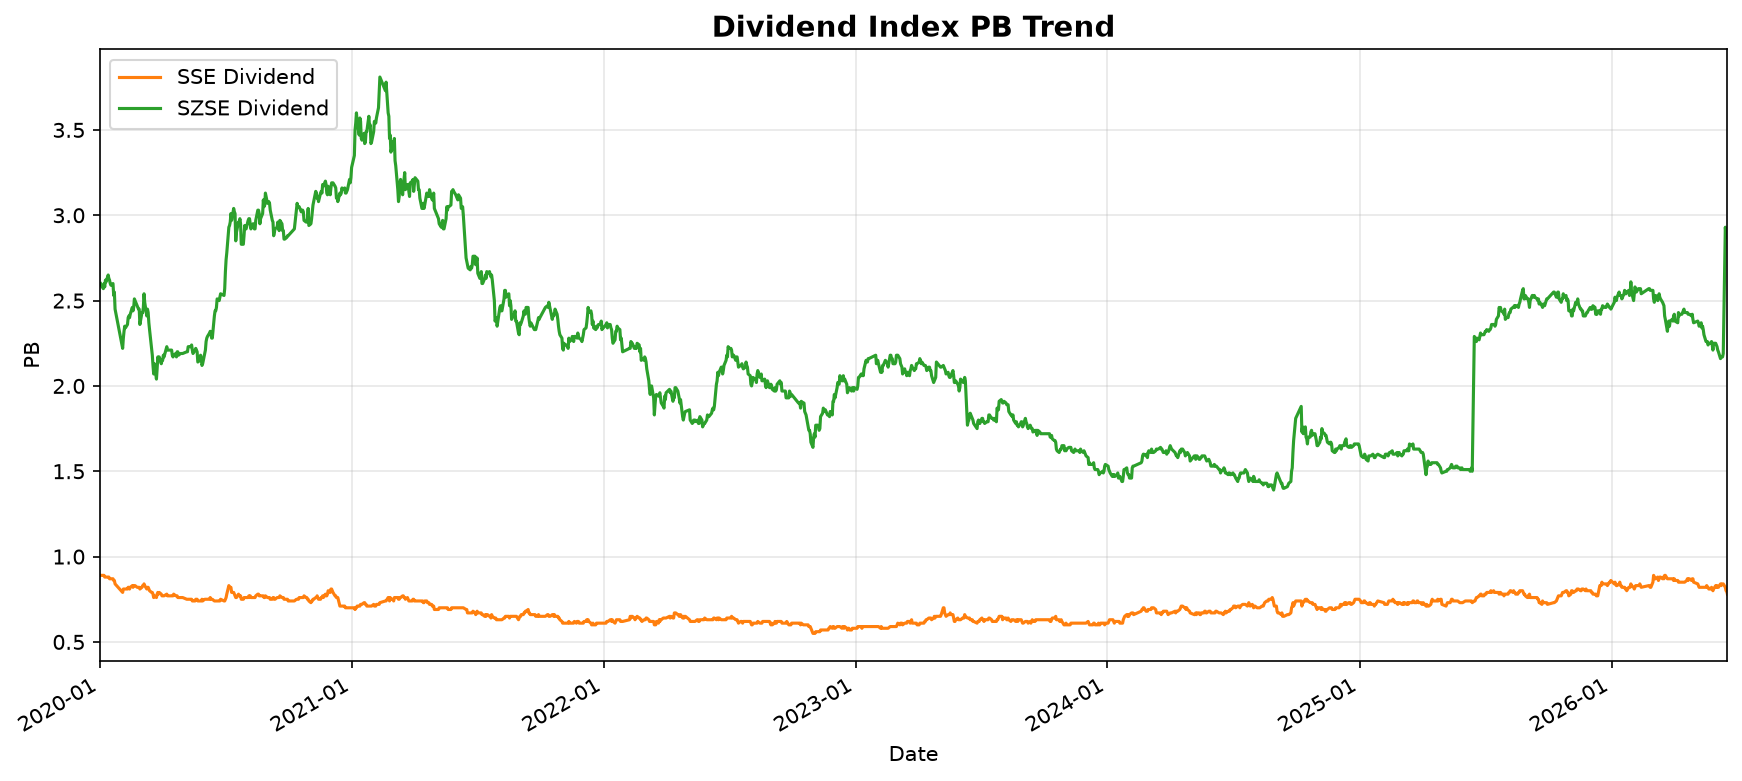
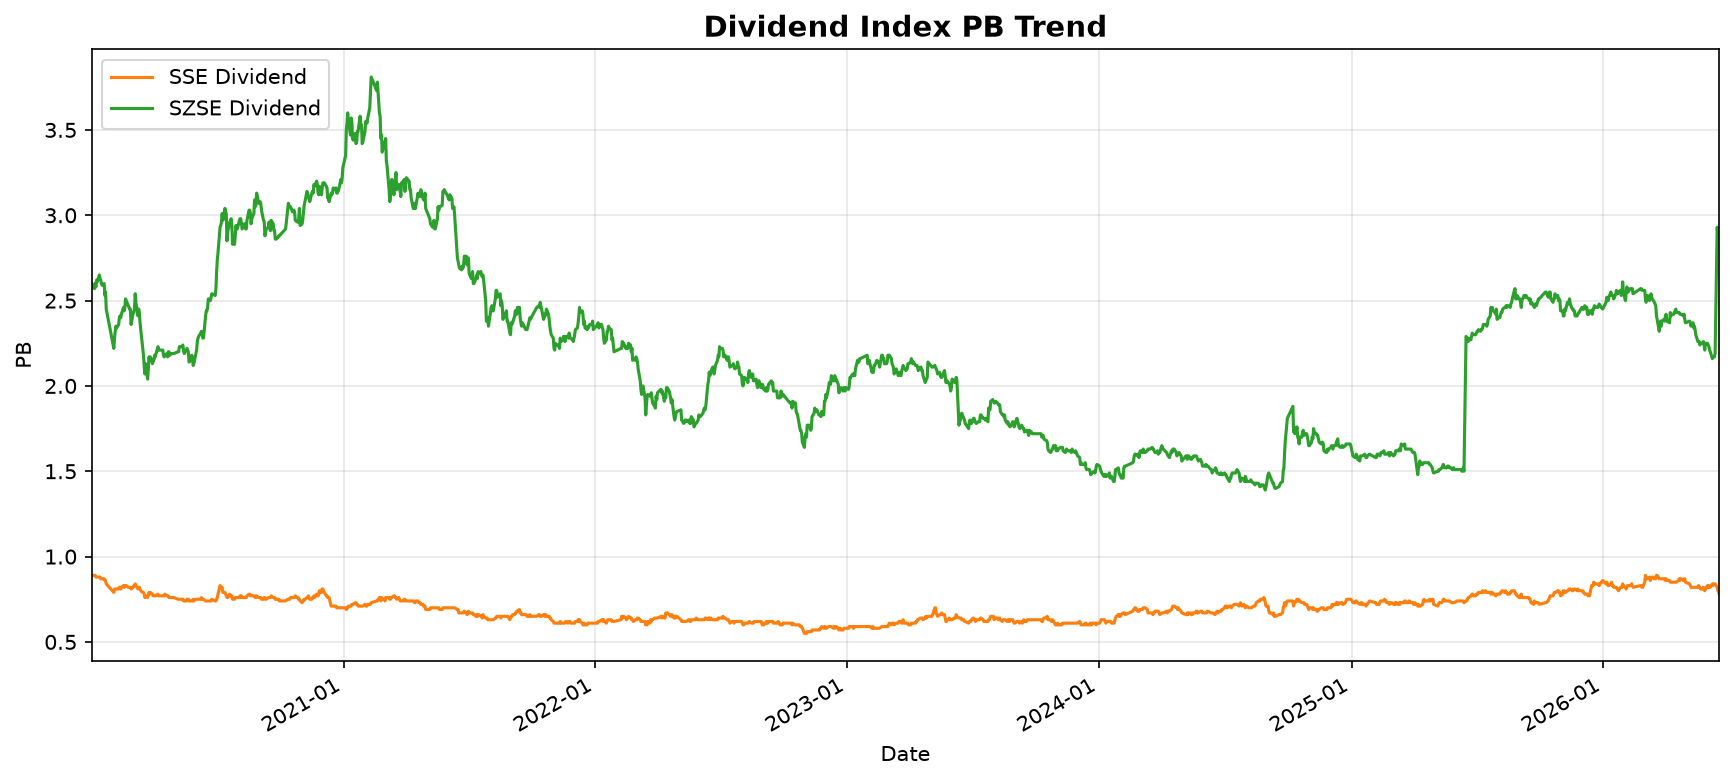
fix(charts): use metric date range

diff --git a/tests/test_update_data_axis.py b/tests/test_update_data_axis.py
@@ -10,7 +10,6 @@ from pathlib import Path
 import matplotlib
 
 matplotlib.use("Agg")
-import matplotlib.dates as mdates
 import matplotlib.pyplot as plt
 
 
@@ -51,31 +50,22 @@ class TestDateAxisFormatting(unittest.TestCase):
         finally:
             plt.close(fig)
 
-    def test_full_history_range_is_preserved(self):
-        full_history_dates = [
-            datetime(2020, 1, 1),
-            datetime(2026, 6, 18),
-        ]
-        recent_metric_dates = [
+    def test_recent_metric_range_does_not_repeat_month_labels(self):
+        dates = [
             datetime(2026, 5, 22),
             datetime(2026, 6, 18),
         ]
 
         fig, ax = plt.subplots(figsize=(14, 6))
         try:
-            ax.plot(recent_metric_dates, [4.3, 5.1])
-            self.update_data.format_date_axis(ax, full_history_dates)
+            ax.plot(dates, [4.3, 5.1])
+            self.update_data.format_date_axis(ax, dates)
             fig.canvas.draw()
 
-            min_xlim, max_xlim = ax.get_xlim()
-            min_date = mdates.num2date(min_xlim).replace(tzinfo=None)
-            max_date = mdates.num2date(max_xlim).replace(tzinfo=None)
             labels = [tick.get_text() for tick in ax.get_xticklabels() if tick.get_text()]
 
-            self.assertLessEqual(min_date.date(), datetime(2020, 1, 1).date())
-            self.assertGreaterEqual(max_date.date(), datetime(2026, 6, 18).date())
-            self.assertIn("2020-01", labels)
-            self.assertIn("2026-01", labels)
+            self.assertEqual(labels, list(dict.fromkeys(labels)))
+            self.assertTrue(all(label.startswith("2026-") for label in labels))
         finally:
             plt.close(fig)
 

diff --git a/scripts/update_data.py b/scripts/update_data.py
@@ -365,13 +365,14 @@ def generate_charts(df):
 
     indices = df['index_code'].unique()
     colors = {'000922': '#1f77b4', '000015': '#ff7f0e', '399324': '#2ca02c', 'H30269': '#d62728'}
-    axis_dates = df['date']
 
     # 1. PE trend
     fig, ax = plt.subplots(figsize=(14, 6))
+    plotted_dates = []
     for code in indices:
         sub = df[(df['index_code'] == code) & (df['pe_ttm'].notna())]
         if not sub.empty:
+            plotted_dates.extend(sub['date'].tolist())
             ax.plot(
                 sub['date'], sub['pe_ttm'],
                 label=INDICES[code].get('english_name', INDICES[code]['name']),
@@ -383,7 +384,7 @@ def generate_charts(df):
     ax.set_ylabel('PE-TTM')
     ax.legend(loc='upper left')
     ax.grid(True, alpha=0.3)
-    format_date_axis(ax, axis_dates)
+    format_date_axis(ax, plotted_dates)
     fig.autofmt_xdate()
     fig.savefig(CHARTS_DIR / 'pe_trend.png', dpi=150, bbox_inches='tight')
     plt.close(fig)
@@ -391,9 +392,11 @@ def generate_charts(df):
 
     # 2. PB trend
     fig, ax = plt.subplots(figsize=(14, 6))
+    plotted_dates = []
     for code in indices:
         sub = df[(df['index_code'] == code) & (df['pb'].notna())]
         if not sub.empty:
+            plotted_dates.extend(sub['date'].tolist())
             ax.plot(
                 sub['date'], sub['pb'],
                 label=INDICES[code].get('english_name', INDICES[code]['name']),
@@ -405,7 +408,7 @@ def generate_charts(df):
     ax.set_ylabel('PB')
     ax.legend(loc='upper left')
     ax.grid(True, alpha=0.3)
-    format_date_axis(ax, axis_dates)
+    format_date_axis(ax, plotted_dates)
     fig.autofmt_xdate()
     fig.savefig(CHARTS_DIR / 'pb_trend.png', dpi=150, bbox_inches='tight')
     plt.close(fig)
@@ -413,9 +416,11 @@ def generate_charts(df):
 
     # 3. Dividend yield trend
     fig, ax = plt.subplots(figsize=(14, 6))
+    plotted_dates = []
     for code in indices:
         sub = df[(df['index_code'] == code) & (df['dividend_yield'].notna())]
         if not sub.empty:
+            plotted_dates.extend(sub['date'].tolist())
             ax.plot(
                 sub['date'], sub['dividend_yield'],
                 label=INDICES[code].get('english_name', INDICES[code]['name']),
@@ -427,7 +432,7 @@ def generate_charts(df):
     ax.set_ylabel('Dividend Yield (%)')
     ax.legend(loc='upper left')
     ax.grid(True, alpha=0.3)
-    format_date_axis(ax, axis_dates)
+    format_date_axis(ax, plotted_dates)
     fig.autofmt_xdate()
     fig.savefig(CHARTS_DIR / 'dividend_yield_trend.png', dpi=150, bbox_inches='tight')
     plt.close(fig)
@@ -435,9 +440,11 @@ def generate_charts(df):
 
     # 4. Dividend yield / bond yield spread
     fig, ax = plt.subplots(figsize=(14, 6))
+    plotted_dates = []
     for code in indices:
         sub = df[(df['index_code'] == code) & (df['dividend_yield'].notna()) & (df['bond_yield'].notna())]
         if not sub.empty:
+            plotted_dates.extend(sub['date'].tolist())
             ratio = sub['dividend_yield'] / sub['bond_yield']
             ax.plot(
                 sub['date'], ratio,
@@ -452,7 +459,7 @@ def generate_charts(df):
     ax.set_ylabel('Multiple')
     ax.legend(loc='upper left')
     ax.grid(True, alpha=0.3)
-    format_date_axis(ax, axis_dates)
+    format_date_axis(ax, plotted_dates)
     fig.autofmt_xdate()
     fig.savefig(CHARTS_DIR / 'dy_bond_spread.png', dpi=150, bbox_inches='tight')
     plt.close(fig)

diff --git a/CHANGELOG.md b/CHANGELOG.md
@@ -2,4 +2,4 @@
 
 ## 2026-06-21
 
-- 修复短时间范围图表横坐标月份标签重复的问题，股息率相关图表会显示到具体日期。
+- 修复短时间范围图表横坐标月份标签重复的问题，图表按当前指标有数据的日期范围展示。